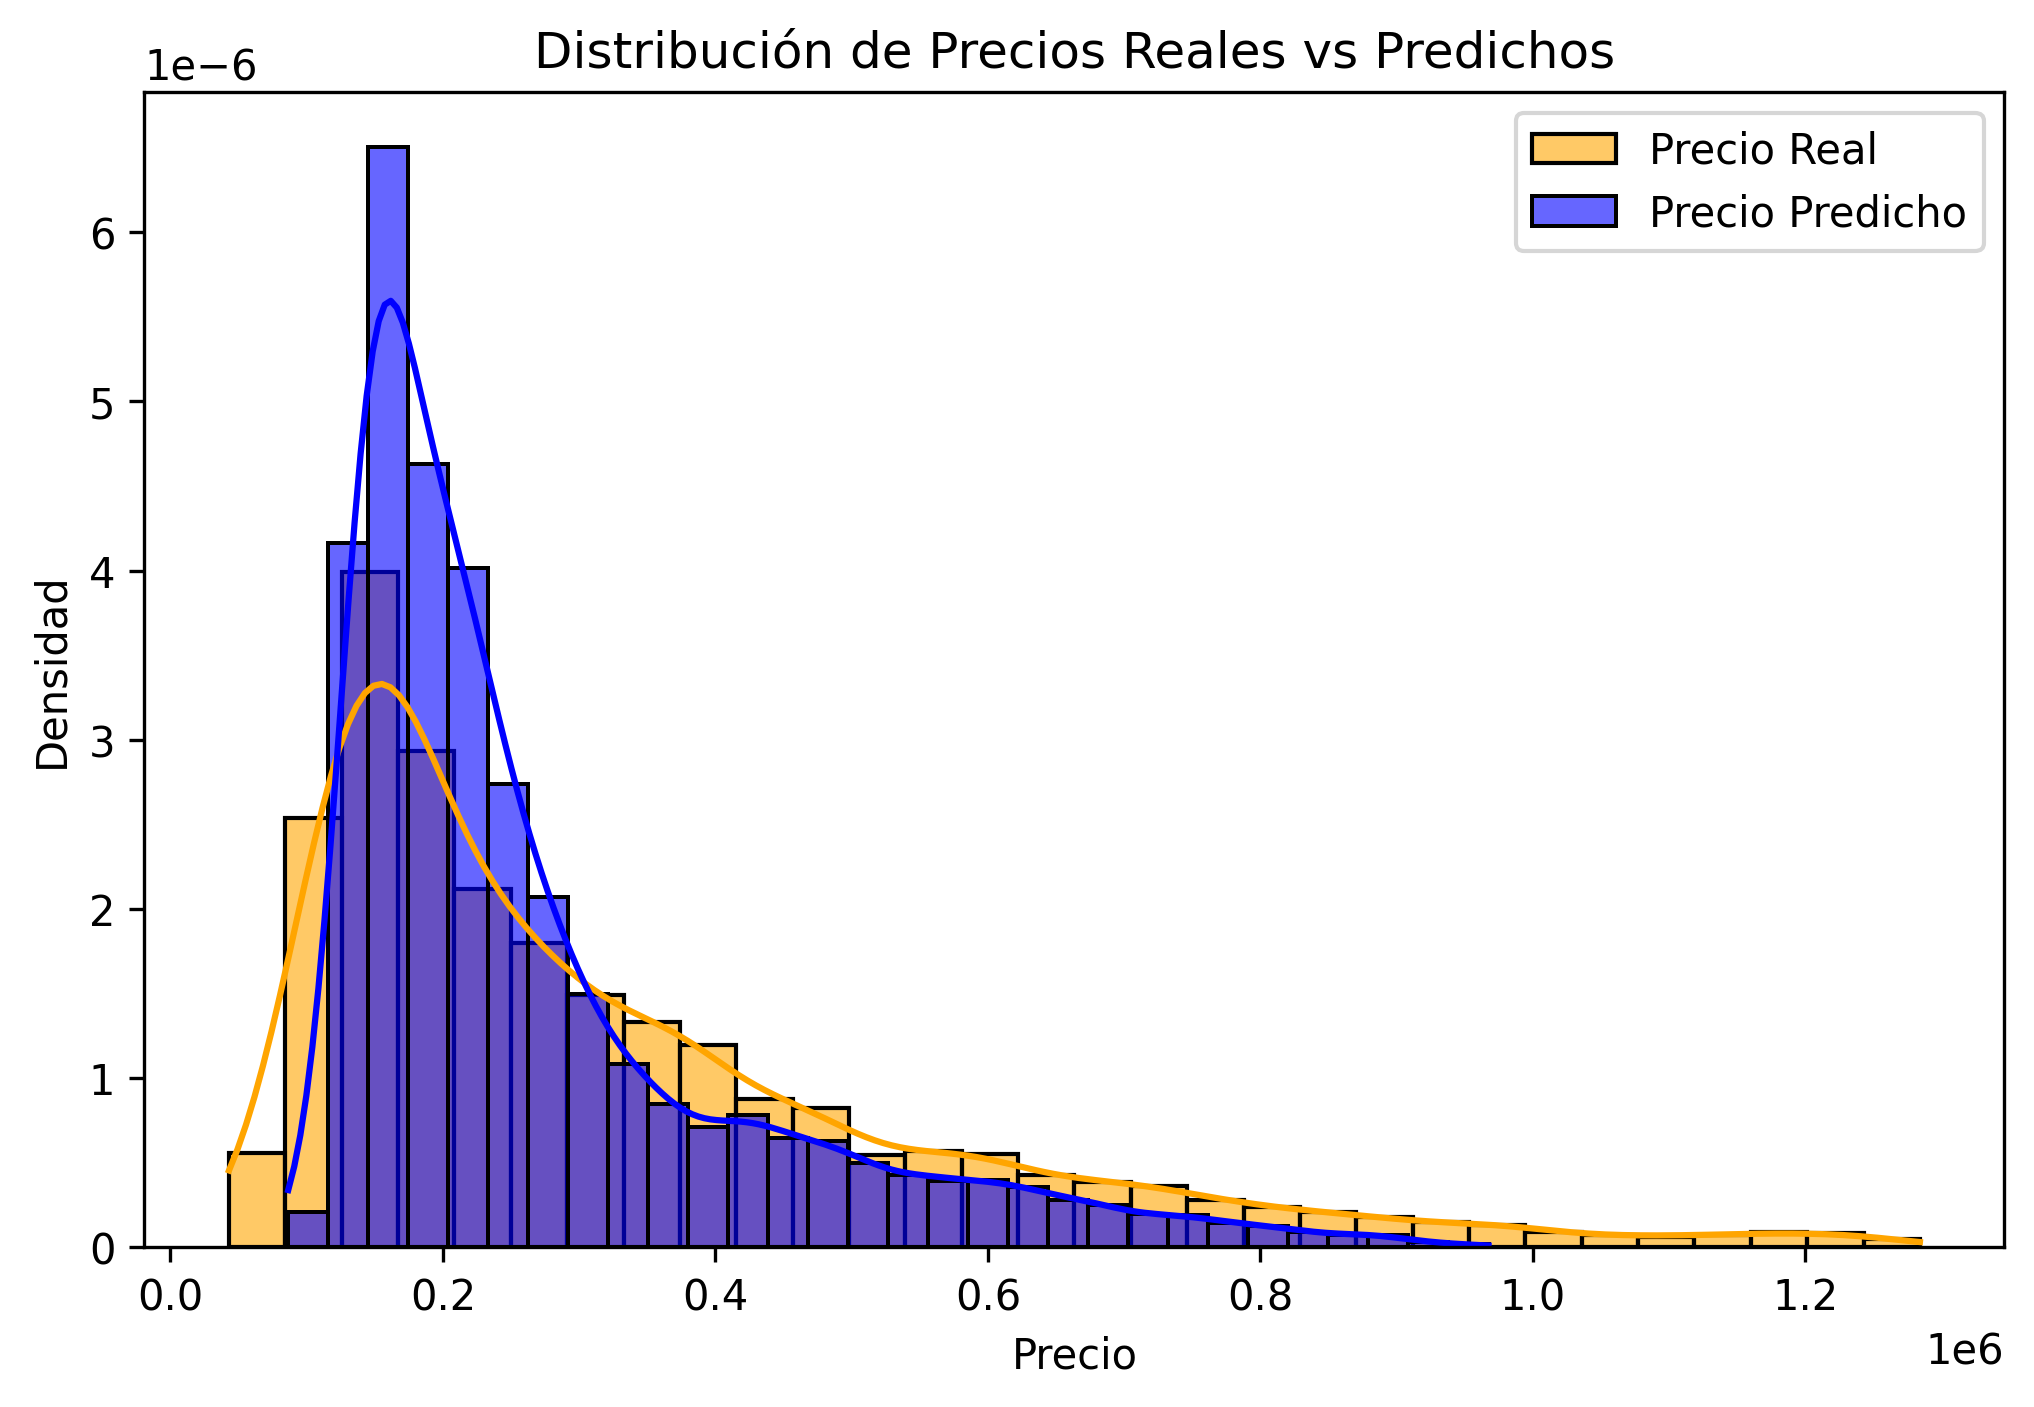
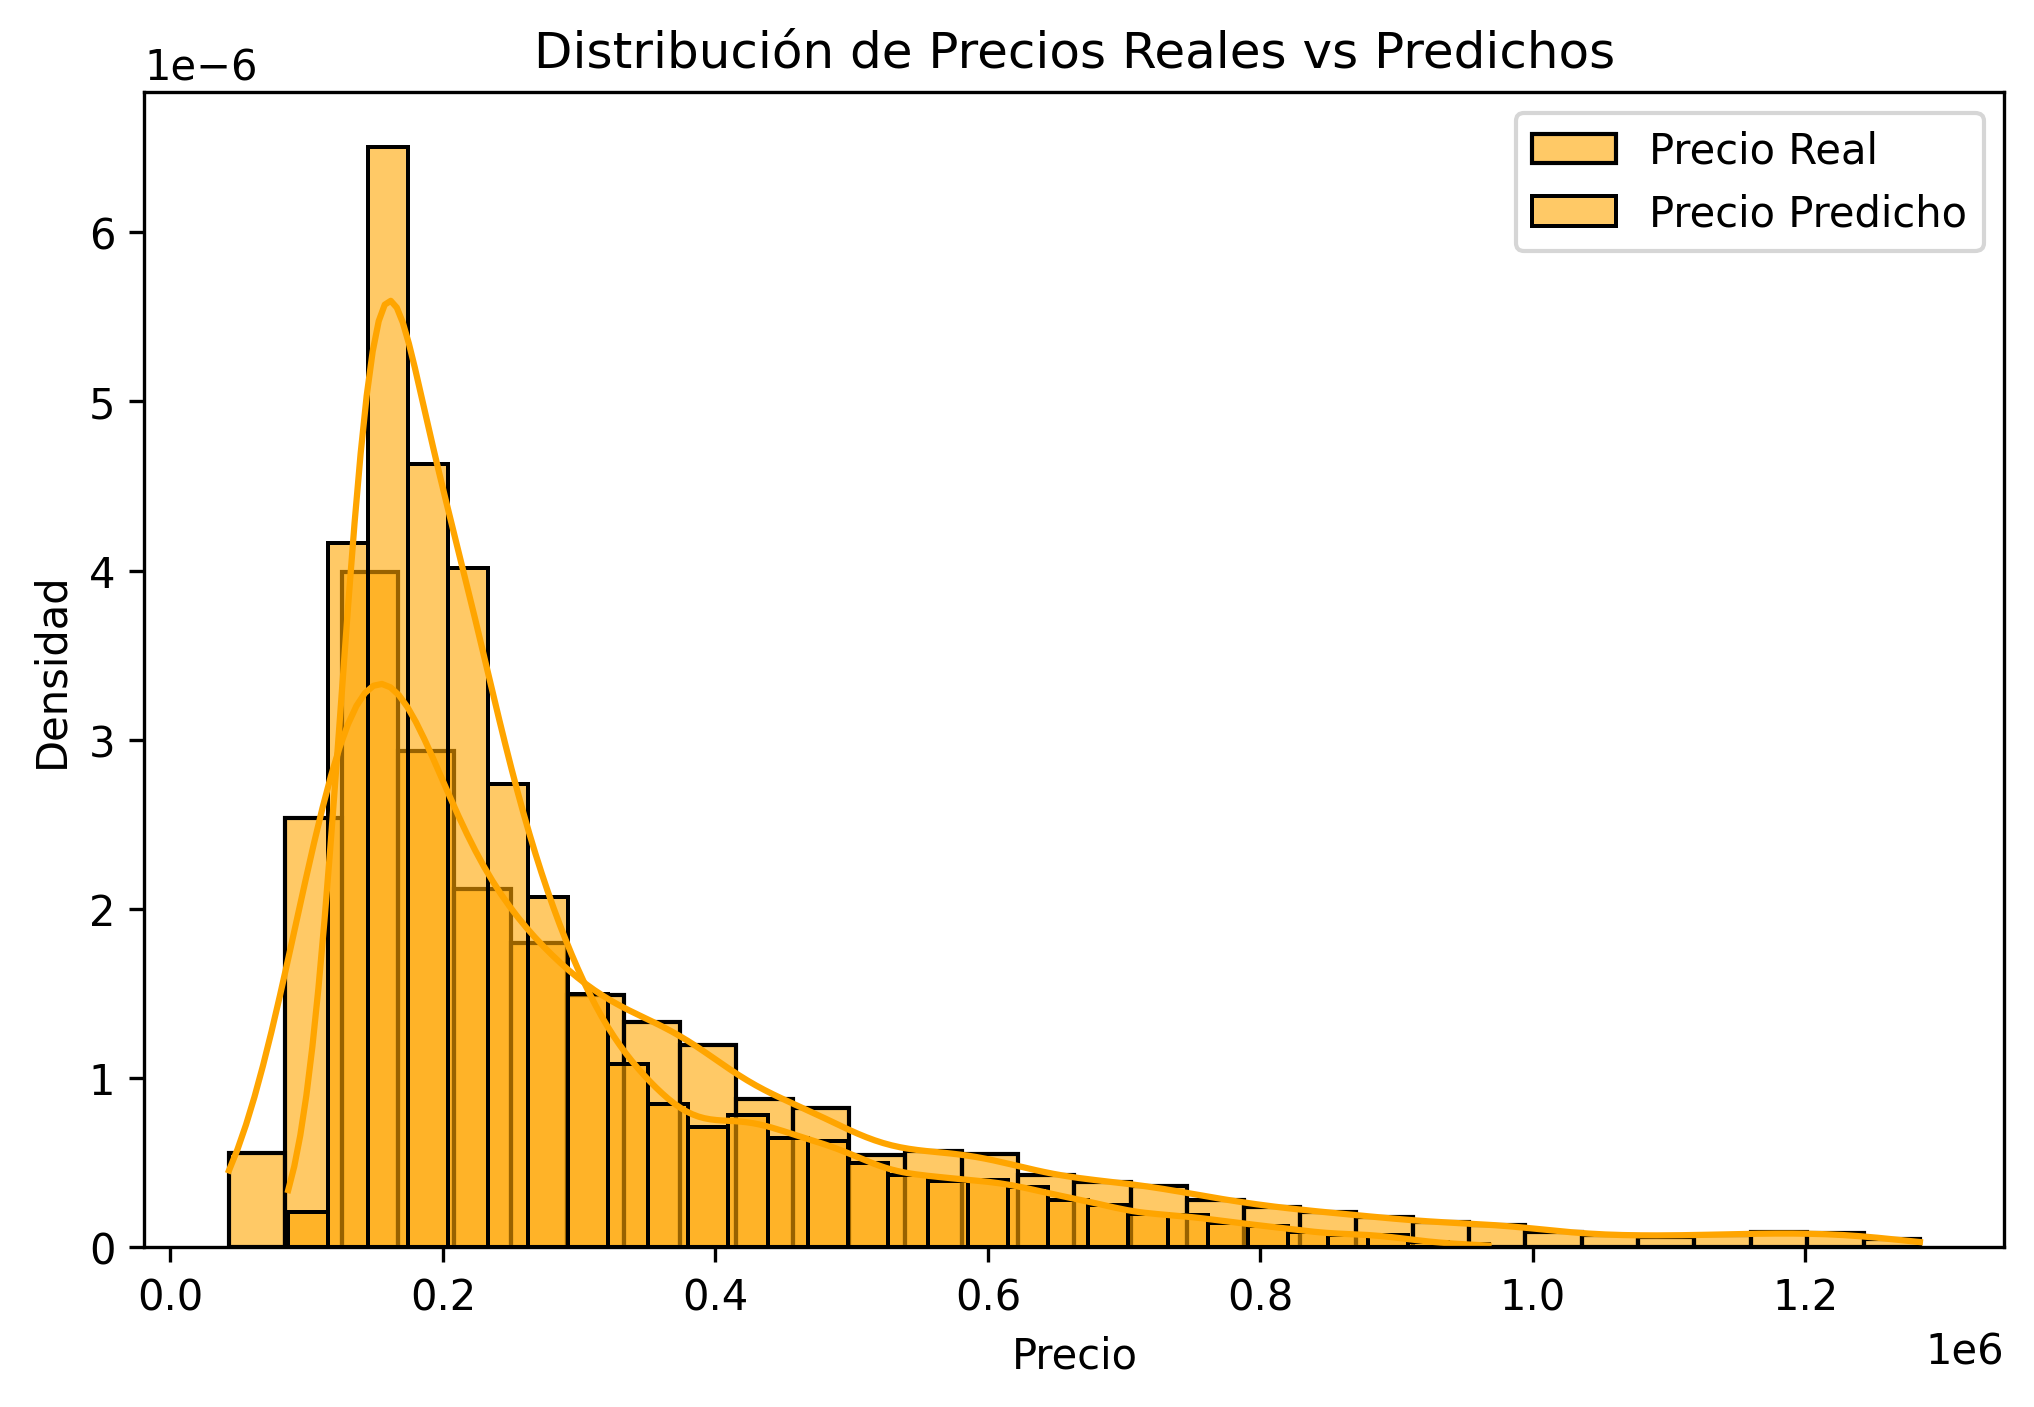
solo faltan los 10 pisos del catasatro

Changed region(s): [[0.1239, 0.0917, 0.7124, 0.8863], [0.7434, 0.1222, 0.8053, 0.1834]]

diff --git a/7.5 TensorFlow con filtrado/claude_para_sequential.py b/7.5 TensorFlow con filtrado/claude_para_sequential.py
@@ -290,12 +290,16 @@ if training_successful:
         for i in range(min(10, len(y_test_original))):
             print(f"Real: {y_test_original[i,0]:,.2f}, Predicho: {y_pred[i,0]:,.2f}, Diferencia: {abs(y_test_original[i,0] - y_pred[i,0]):,.2f}")
         
-        # Guardar resultados
-        resultados_df = pd.DataFrame({
-            'Precio_real': y_test_original.flatten(),
-            'Precio_predicho': y_pred.flatten(),
-            'Error_absoluto': abs(y_test_original.flatten() - y_pred.flatten())
-        })
+        # Guardar resultados (ahora conservamos el índice original de X_test)
+        resultados_df = pd.DataFrame(
+            {
+                'Precio_real': y_test_original.flatten(),
+                'Precio_predicho': y_pred.flatten(),
+                'Error_absoluto': np.abs(y_test_original.flatten() - y_pred.flatten())
+            },
+            index=X_test_scaled.index          #  <-- línea clave
+        )
+
         
         resultados_df.to_csv(r"C:\Users\costa\Desktop\TFG\7.5 TensorFlow con filtrado\resultados_modelo_estable.csv", index=False)
         modelo_estable.save_weights(r'C:\Users\costa\Desktop\TFG\7.5 TensorFlow con filtrado\modelo_estable.weights.h5')
@@ -324,7 +328,7 @@ if training_successful:
         
         plt.tight_layout()
         plt.savefig(r'C:\Users\costa\Desktop\TFG\7.5 TensorFlow con filtrado\modelo_estable_analisis_ENTRENAMIENTO.png', dpi=300, bbox_inches='tight')
-        plt.show()
+        #plt.show()
 
 
         plt.figure(figsize=(10, 5))
@@ -349,21 +353,21 @@ if training_successful:
         
         plt.tight_layout()
         plt.savefig(r'C:\Users\costa\Desktop\TFG\7.5 TensorFlow con filtrado\modelo_estable_analisis_R2_Y_DIST.png', dpi=300, bbox_inches='tight')
-        plt.show()
+        #plt.show()
         
         import seaborn as sns
 
         # === Distribución de precios reales vs predichos ===
         plt.figure(figsize=(8, 5))
         sns.histplot(y_test_original.flatten(), color='orange', label='Precio Real', kde=True, stat="density", bins=30, alpha=0.6)
-        sns.histplot(y_pred.flatten(), color='blue', label='Precio Predicho', kde=True, stat="density", bins=30, alpha=0.6)
+        sns.histplot(y_pred.flatten(), color='orange', label='Precio Predicho', kde=True, stat="density", bins=30, alpha=0.6)
 
         plt.xlabel('Precio')
         plt.ylabel('Densidad')
         plt.title('Distribución de Precios Reales vs Predichos')
         plt.legend()
         plt.savefig(r'C:\Users\costa\Desktop\TFG\7.5 TensorFlow con filtrado\distribucion_precios_reales_vs_predichos.png', dpi=300, bbox_inches='tight')
-        plt.show()
+        #plt.show()
 
         print(f"\nModelo guardado exitosamente!")
         
@@ -400,3 +404,82 @@ else:
         print("El problema está en los datos de entrada.")
 
 print(f"\n=== DIAGNÓSTICO COMPLETADO ===")
+
+# === SHAP WATERFALL PARA UN SOLO CASO =======================================
+# Requiere: modelo_estable entrenado, X_train_array, X_test_scaled, resultados_df
+
+import shap
+import numpy as np
+import pandas as pd
+import matplotlib.pyplot as plt
+from pathlib import Path
+
+# ---------------------------------------------------------------------------
+# 1. Calcular el error porcentual de cada predicción del test
+# ---------------------------------------------------------------------------
+resultados_df["error_pct"] = (
+    np.abs(resultados_df["Precio_real"] - resultados_df["Precio_predicho"])
+    / resultados_df["Precio_real"]
+) * 100
+
+# ---------------------------------------------------------------------------
+# 2. Elegir el primer caso con error alto (>100 %, o >50 % si no hay)
+# ---------------------------------------------------------------------------
+errores_altos = resultados_df[resultados_df["error_pct"] > 100]
+if errores_altos.empty:
+    errores_altos = resultados_df[resultados_df["error_pct"] > 50]
+
+indice_caso = errores_altos.index[0]          # índice del caso elegido
+caso_scaled  = X_test_scaled.loc[[indice_caso]]   # DataFrame de UNA fila
+
+# ---------------------------------------------------------------------------
+# 3. Crear el explainer (usa automáticamente Deep/Gradient para Keras)
+#    -> se toma una muestra pequeña de entrenamiento como background
+# ---------------------------------------------------------------------------
+np.random.seed(42)
+background_idx = np.random.choice(len(X_train_array), size=100, replace=False)
+explainer = shap.Explainer(
+    modelo_estable.predict,           # función predict del modelo
+    X_train_array[background_idx]     # background en formato np.array
+)
+
+# ---------------------------------------------------------------------------
+# 4. Obtener SHAP values del caso y graficar waterfall
+# ---------------------------------------------------------------------------
+shap_values = explainer(caso_scaled)     # shap.Explanation
+sv_row = shap_values[0]                  # contribuciones de esa fila
+
+# Carpeta de salida
+out_dir = Path(r"C:\Users\costa\Desktop\TFG\7.5 TensorFlow con filtrado")
+out_dir.mkdir(parents=True, exist_ok=True)
+
+# 4.1. Waterfall plot --------------------------------------------------------
+plt.figure()
+shap.plots.waterfall(sv_row, max_display=25, show=False)
+plt.savefig(out_dir / "waterfall_high_NONO_error_NN.png",
+            dpi=300, bbox_inches="tight")
+plt.close()
+
+# ---------------------------------------------------------------------------
+# 4-bis. Convertir contribuciones y valor base a EUROS
+# ---------------------------------------------------------------------------
+target_scale  = scaler_y.scale_[0]     # IQR del precio
+target_median = scaler_y.center_[0]    # mediana del precio
+
+sv_row_eur = shap.Explanation(
+    values      = sv_row.values * target_scale,            # contribuciones € 
+    base_values = sv_row.base_values * target_scale + target_median,  # valor base €
+    data        = sv_row.data,
+    feature_names = sv_row.feature_names
+)
+
+# 4.1. Waterfall plot (ahora en €) ------------------------------------------
+plt.figure()
+shap.plots.waterfall(sv_row_eur, max_display=25, show=False)
+plt.savefig(out_dir / "waterfall_high_error_NN.png",
+            dpi=300, bbox_inches="tight")
+plt.close()
+
+
+print("\n=== CONTRIBUCIONES SHAP – CASO DE ERROR ALTO ===")
+

diff --git a/8.0 Graficas varias/TreeMap_RedNeuronal.py b/8.0 Graficas varias/TreeMap_RedNeuronal.py
@@ -1,0 +1,41 @@
+import pandas as pd
+import matplotlib.pyplot as plt
+import squarify
+import os
+
+# Crear carpeta si no existe
+os.makedirs("8.0 Graficas varias", exist_ok=True)
+
+# Datos
+data_nn = {
+    'Feature': [
+        'CONSTRUCTEDAREA', 'CADDWELLINGCOUNT', 'DIST_TO_CASTELLANA', 'FLOORCLEAN',
+        'CADCONSTRUCTIONYEAR', 'BATHNUMBER', 'ROOMNUMBER', 'Zona_Cuadricula',
+        'CADMAXBUILDFLOOR', 'DIST_TO_CITY_CENTER', 'DIST_TO_METRO', 'WARDROBE',
+        'PARKINGSPACE', 'BOXROOM', 'TERRACE', 'DOORMAN', 'AIRCONDITIONING',
+        'SWIMMINGPOOL', 'LIFT', 'GARDEN', 'ISDUPLEX', 'ISINTOPFLOOR', 'ISSTUDIO'
+    ],
+    'Importance': [
+        0.063851, 0.057398, 0.054933, 0.054794, 0.052064, 0.051975, 0.051079, 0.050983,
+        0.049350, 0.047047, 0.046295, 0.042637, 0.039929, 0.039637, 0.039339, 0.038835,
+        0.038739, 0.038512, 0.038361, 0.036894, 0.023937, 0.022944, 0.020466
+    ]
+}
+
+df_nn = pd.DataFrame(data_nn)
+df_nn = df_nn.sort_values('Importance', ascending=False)
+
+# Crear gráfico
+plt.figure(figsize=(17, 10))
+squarify.plot(
+    sizes=df_nn['Importance'],
+    label=df_nn['Feature'],
+    alpha=0.8,
+    text_kwargs={'fontsize': 19},
+    color=['#FF9999', '#CCFF99', '#FFFF99', '#FFCC99', '#99FF99', '#99FFFF', '#9999FF', '#CC99FF', '#FF99CC'] * 3
+)
+plt.axis('off')
+plt.title('Importancia de las Features según Red Neuronal (Primera capa)', fontsize=30)
+plt.tight_layout()
+plt.savefig('8.0 Graficas varias/TreeMap_NN_Feature_Importance.png', dpi=300, bbox_inches='tight')
+plt.show()

diff --git a/8.0 Graficas varias/TreeMap_XGBoost.py b/8.0 Graficas varias/TreeMap_XGBoost.py
@@ -1,0 +1,38 @@
+import pandas as pd
+import matplotlib.pyplot as plt
+import squarify  # para treemap
+
+# Datos
+data = {
+    'Feature': [
+        'CONSTRUCTEDAREA', 'Zona_Cuadricula', 'BUILTTYPEID_3', 'HASLIFT', 'DISTANCE_TO_CASTELLANA',
+        'BATHNUMBER', 'SWIMMINGPOOL', 'lat_normalized', 'DIST_CITY_CENTER', 'BUILTTYPEID_1',
+        'lon_normalized', 'AC AA', 'BUILTTYPEID_2', 'DOORMAN', 'PARKING SPACE',
+        'FLOORCLEAN', 'ROOM NUM', 'REST of 14 VARIABLES (7.4%)'
+    ],
+    'Importance': [
+        0.288333, 0.082039, 0.072755, 0.070262, 0.065788, 0.064307, 0.050757, 0.045587, 0.032205,
+        0.029080, 0.027149, 0.019754, 0.018715, 0.015273, 0.014078, 0.012388, 0.009758, 0.074447
+    ]
+}
+
+df = pd.DataFrame(data)
+
+# Ordenar de mayor a menor
+df = df.sort_values('Importance', ascending=False)
+
+# Crear el treemap
+plt.figure(figsize=(17, 10))
+squarify.plot(
+    sizes=df['Importance'],
+    label=df['Feature'],
+    alpha=0.8,
+    text_kwargs={'fontsize': 19},
+    color=['#FF9999', '#FFCC99', '#FFFF99', '#CCFF99', '#99FF99', '#99FFFF', '#9999FF', '#CC99FF', '#FF99CC'] * 4
+    + ['#FF9999', '#FFCC99', '#FFFF99', '#CCFF99', '#99FF99', '#99FFFF', '#9999FF', '#CC99FF', '#FF99CC'][:len(df) - 36]
+)
+plt.axis('off')
+plt.title('Importancia de las Features según XGBoost', fontsize=30)
+plt.tight_layout()
+plt.savefig('8.0 Graficas varias/TreeMap_XGBoost_Feature_Importance.png', dpi=300, bbox_inches='tight')
+plt.show()

diff --git a/6.5 XGBoost con Datos Filtrados/xgboost_primero_sin_CADASTRA.py b/6.5 XGBoost con Datos Filtrados/xgboost_primero_sin_CADASTRA.py
@@ -2,7 +2,7 @@ import pandas as pd
 import numpy as np
 from sklearn.model_selection import train_test_split
 import xgboost as xgb
-from sklearn.metrics import mean_absolute_error
+from sklearn.metrics import mean_absolute_error, r2_score
 import joblib
 import matplotlib.pyplot as plt
 
@@ -159,6 +159,8 @@ import os
 output_dir = r"6.5 XGBoost con Datos Filtrados"
 os.makedirs(output_dir, exist_ok=True)
 
+r2 = r2_score(y_valid, y_pred)
+
 plt.figure(figsize=(10, 5))
 
 # 1. Predicciones vs Reales
@@ -167,7 +169,7 @@ plt.scatter(y_valid, y_pred, alpha=0.4)
 plt.plot([y_valid.min(), y_valid.max()], [y_valid.min(), y_valid.max()], 'r--', lw=2)
 plt.xlabel('Precio Real')
 plt.ylabel('Precio Predicho')
-plt.title('Predicción vs Real')
+plt.title(f'Predicciones vs Reales (R² = {r2:.3f})')
 
 # 2. Histograma de errores (reales - predichos)
 plt.subplot(1, 2, 2)
